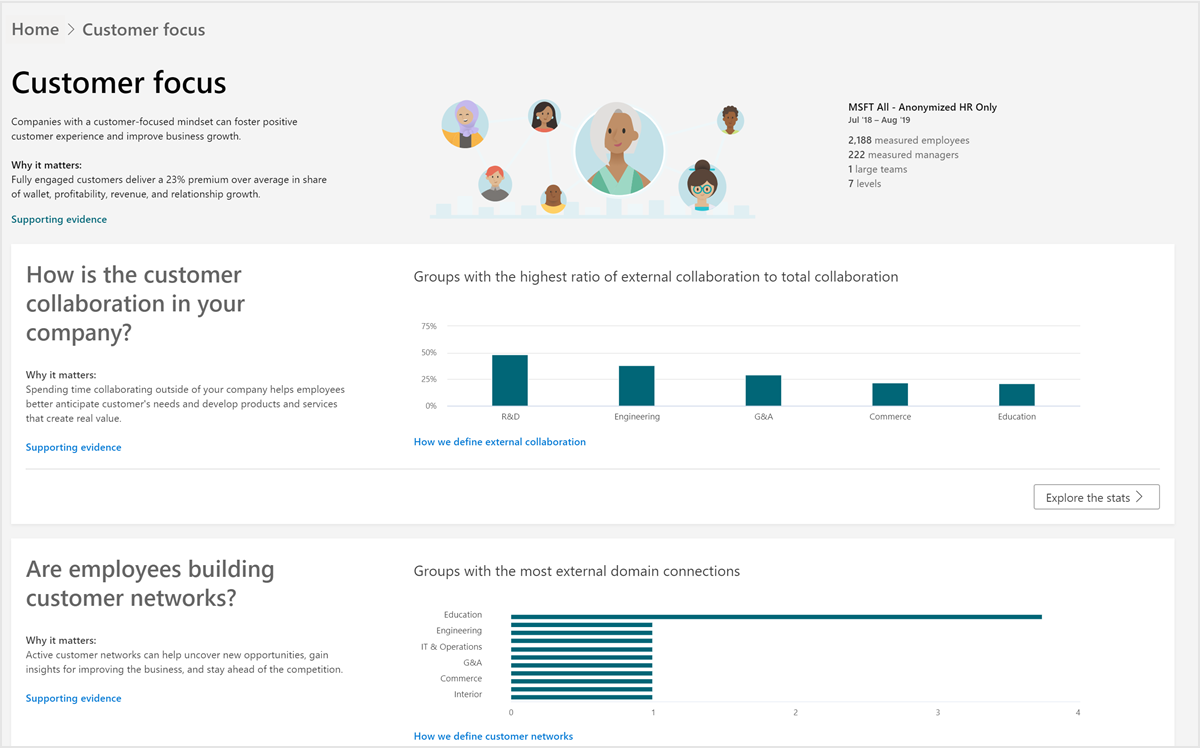
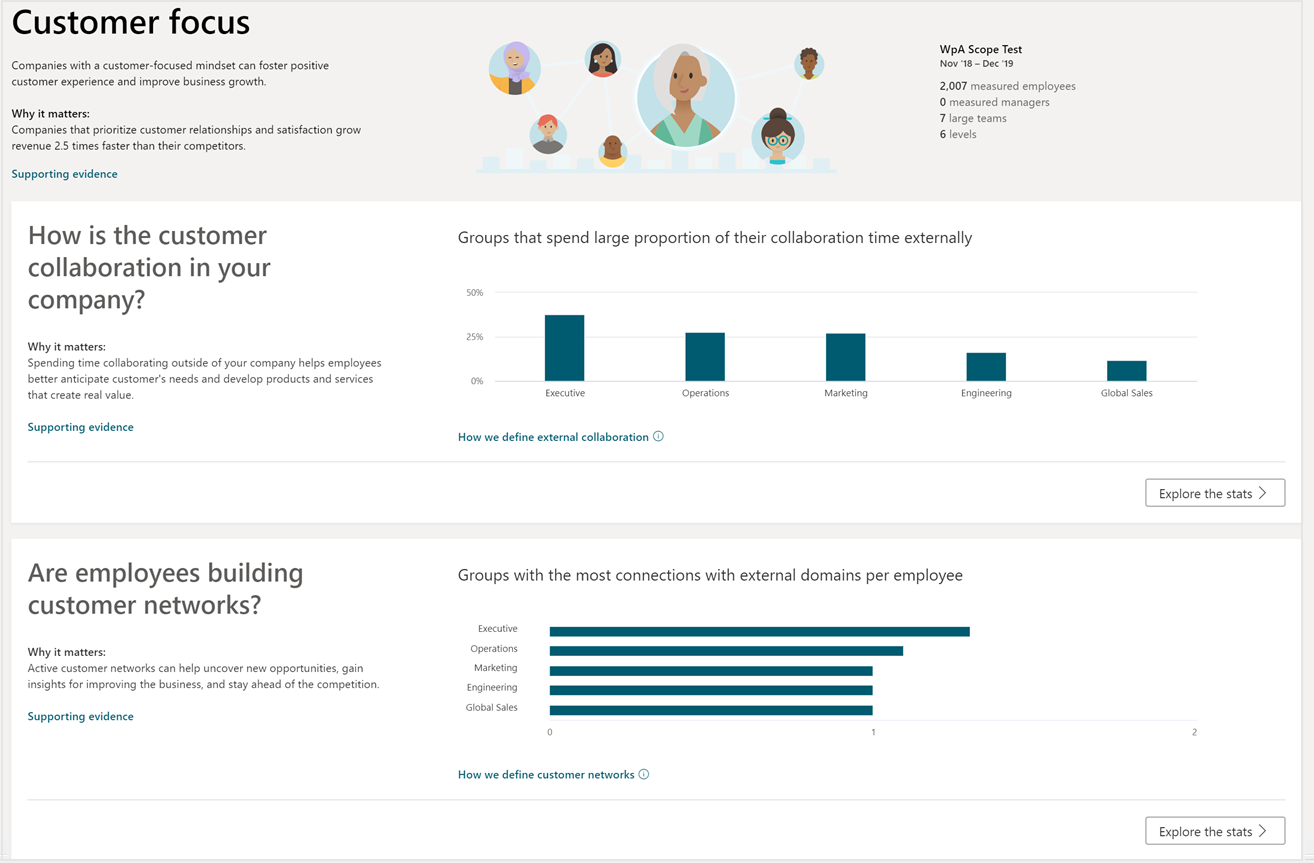
Review edits
and new screenshots based on design changes per Anji

diff --git a/WorkplaceAnalytics/Use/home-page.md b/WorkplaceAnalytics/Use/home-page.md
@@ -1,6 +1,6 @@
 ---
 ROBOTS: NOINDEX,NOFOLLOW
-title: Workplace Analytics Home pages for analysts
+title: Workplace Analytics Insights for analysts
 description: Learn how the Workplace Analytics Home pages uses industry-based research to show you actionable insights into more effective business outcomes for your organization
 author: madehmer
 ms.author: madehmer
@@ -9,11 +9,11 @@ localization_priority: normal
 ms.prod: wpa
 ---
 
-# Workplace Analytics Home pages for analysts
+# Workplace Analytics Insights for analysts
 
-As a business leader, an analyst, or a program manager, you can use the new **Home** pages to see research-based behavioral insights into how your organization gets work done.
+As a business leader, an analyst, or a program manager, you can use these pages to see research-based behavioral insights into how your organization gets work done.
 
-![Home page](../images/wpa/use/wpa-home.png)
+![Home page](../images/wpa/use/wpa-home-1.png)
 
 ## Analysis scope
 
@@ -43,9 +43,9 @@ For example, are your employees engaged often and deeply with customers? Researc
 
 ![Customer focus](../images/wpa/use/customer-focus.png)
 
-## Supporting evidence
+## Supporting evidence and Best practices
 
-Each insight includes **Supporting evidence** that links you to a related article at [Microsoft Workplace Insights](https://insights.office.com/). These articles are authored by:
+Each insight includes **Supporting evidence** and **Best practices** that link you to related information, such as [Microsoft Workplace Insights](https://insights.office.com/), which are authored by:
 
 * Industry experts based on research.
 * Organizations that have effectively used Workplace Analytics to improve their business outcomes.
@@ -69,17 +69,16 @@ The following describes the metrics used in each of the business insight questio
 
 |Question |Metric description  |
 |---------|--------------------|
-|Are employees getting enough time with their manager? |The number of employees who have fewer than 15 minutes of 1:1 time with their manager each week (based on the total 1:1 time in the month), divided by the total number of measured employees. |
-|Are employees overwhelmed by email? |Employees that spend over 10 hours in email each week. |
-|Are employees finding time to recharge? |The number of employees that spend greater than one hour outside of their designated work hours in meetings and email each week, divided by the total number of measured employees. |
-|Are employees overloaded by long and large meetings? |The number of employees that spend over 50 percent of their total meeting time in long or large meetings, divided by the total number of measured employees. |
-|Do employees have time to focus? |The number of employees who have less than 20 hours each of available time for focused work, divided by the total number of measured employees. |
-|Do employees collaborate across the company? |TKTKTK |
-|Are employees collaborating efficiently 1:1? |TKTKTK |
-|Are managers accessing diverse information? |The number of managers who had fewer than three meaningful connections outside of their organization each month. |
-|Where are the influencers in your company? |The number of organizations who have fewer than expected numbers of influencers, which are based on thresholds defined for the organization and company size. |
-|How is the customer collaboration in your company?	|Groups that spend the highest proportion of their collaboration time externally. |
-|Are employees building customer networks? |Groups that spend time with the most external domain connections. |
+|Are employees getting enough time with their managers? |One-on-one time is the number of meeting hours with only an employee and their manager. To account for various meeting frequencies, the total time is calculated for each employee per month and averaged over a week. |
+|Are employees working after hours? |After-hours work is the number of hours employees spend in meetings and on email outside of working hours. This uses the working hours set in the employee's Outlook calendar settings. |
+|Are employees overwhelmed by email? |Employees that spend over 10 hours in email each week. Email workload is the number of hours employees spend sending and receiving email.|
+|Are employees burdened by long and large meetings? |The number of employees that spend over 50 percent of their total meeting time in long or large meetings, divided by the total number of measured employees. Long meetings are those scheduled for more than an hour. Large meetings are those that involve more than eight people.|
+|Do employees have time to focus? |The number of employees who have less than 20 hours each of available time for focused work, divided by the total number of measured employees. Focus time is when employees have two or more consecutive hours with no meetings. |
+|Are managers connected across the company? |Manager cross-team connections are the number of departments outside their own that the manager had meaningful interactions with in the last 28 days. A meaningful interaction is defined as an email or meeting that includes two to five people. |
+|Do employees collaborate across the company? |Cross-organization collaboration is the number of hours employees spend in meetings and email with at least one person outside of their own department. This insight highlights the organizations that spend more than 50 percent of their overall collaboration within their group. |
+|Are influencers present across the company? |Influencers are employees who have the best connections to people across the company based on their collaboration patterns. This insight highlights the organizations that don't have sufficient representation of them, based on company and organization size. |
+|Are employees sharing information quickly? |One-on-one communication is the combination of email and instant messages (IMs) sent between two employees. This insight highlights the employees that spend less than 10 percent of their one-on-one communication over Teams IM. This is calculated as the percentage of one-on-one IMs sent, divided by the total number of one-on-one IMs and emails sent. |
+
 
 ## Frequently asked questions
 
